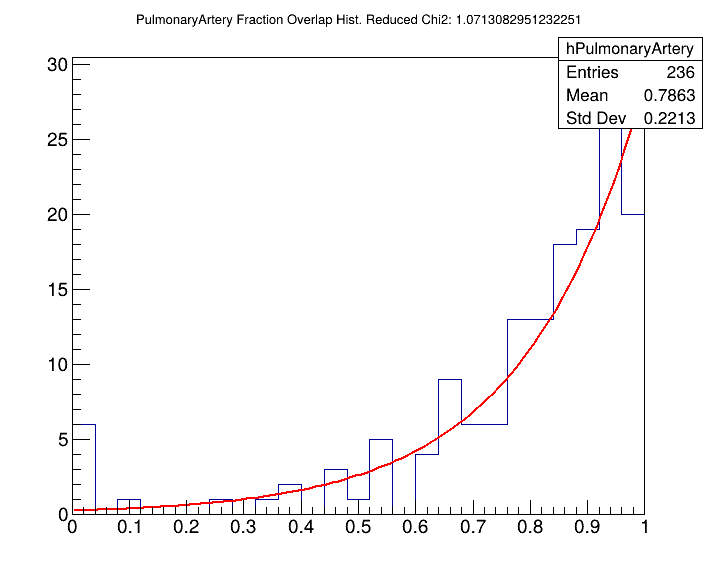
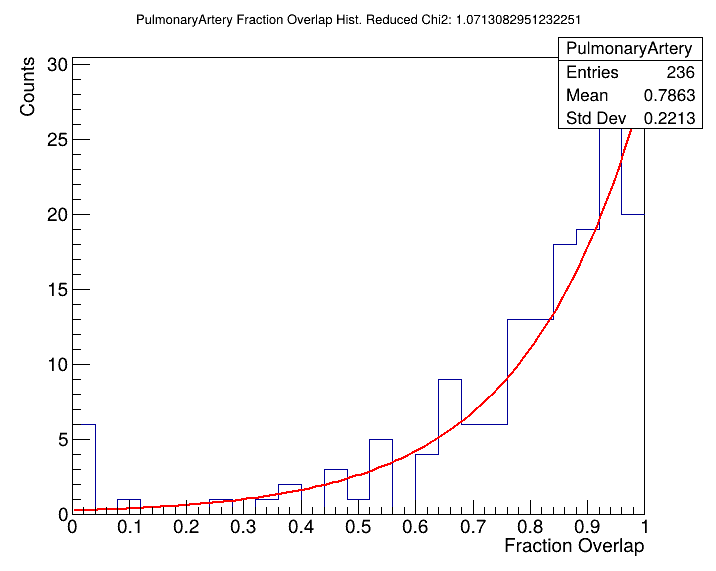
added x, y, labels

Changed region(s): [[0.7989, 0.0595, 0.9832, 0.1191], [0.7067, 0.9229, 0.8911, 0.9825], [0.0307, 0.0893, 0.0615, 0.2084]]

diff --git a/sspaner_histograms.py b/sspaner_histograms.py
@@ -28,7 +28,7 @@ full_hist = ROOT.TH1F("h",f"Total Fraction Overlap",25,0,1)
 hists = []
 organs = []
 for organ, df_organ in all_data_df.groupby("Organ_Clean"):
-    hist = ROOT.TH1F(f"h{organ}",f"{organ} Fraction Overlap Hist", 25, 0, 1)
+    hist = ROOT.TH1F(f"{organ}",f"{organ} Fraction Overlap Hist;Fraction Overlap;Counts", 25, 0, 1)
     for val in df_organ["FractionOverlap"]:
         if val != "NaN":
             hist.Fill(val)
@@ -39,7 +39,7 @@ for organ, df_organ in all_data_df.groupby("Organ_Clean"):
         chi2 = fit_result.Chi2()
         ndf = fit_result.Ndf()
         rchi2 = chi2/ndf
-        hist.SetTitle(f"{organ} Fraction Overlap Hist. Reduced Chi2: {rchi2}")
+        hist.SetTitle(f"{organ} Fraction Overlap Hist. Reduced Chi2: {rchi2};Fraction Overlap; Counts")
     except:
        print("fit not working for {organ}...")
        continue
@@ -53,7 +53,7 @@ chi2 = full_hist_fit_result.Chi2()
 ndf = full_hist_fit_result.Ndf()
 rchi2 = chi2/ndf
 
-full_hist.SetTitle(f"Fraction Overlap Hist for all Organs. Reduced Chi2: {rchi2}")
+full_hist.SetTitle(f"Fraction Overlap Hist for all Organs. Reduced Chi2: {rchi2};Fraction Overlap; Counts")
 hists.append(full_hist)
 organs.append("Full_Hist")
 
